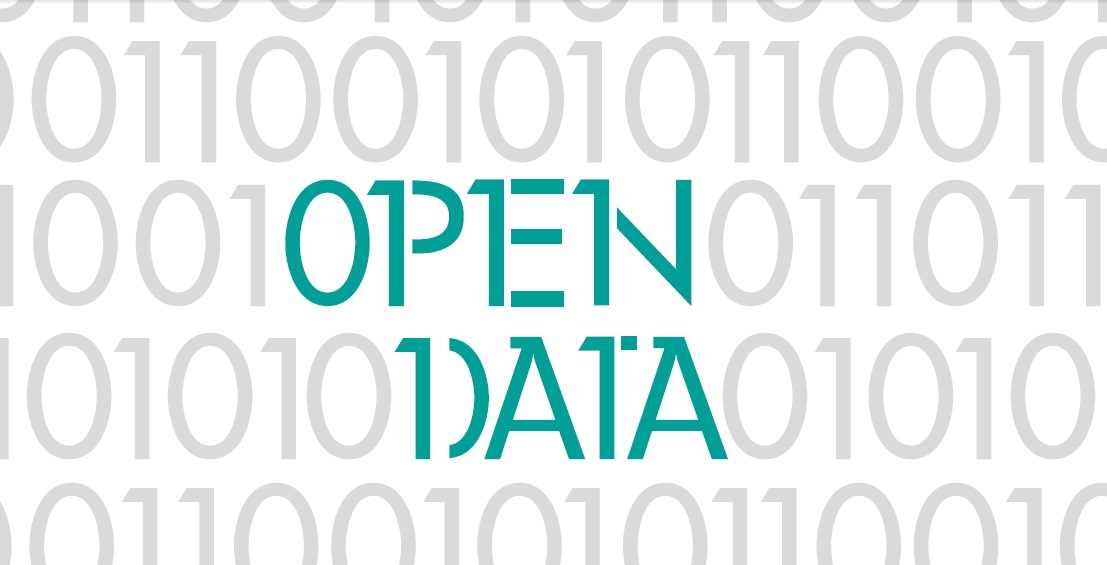
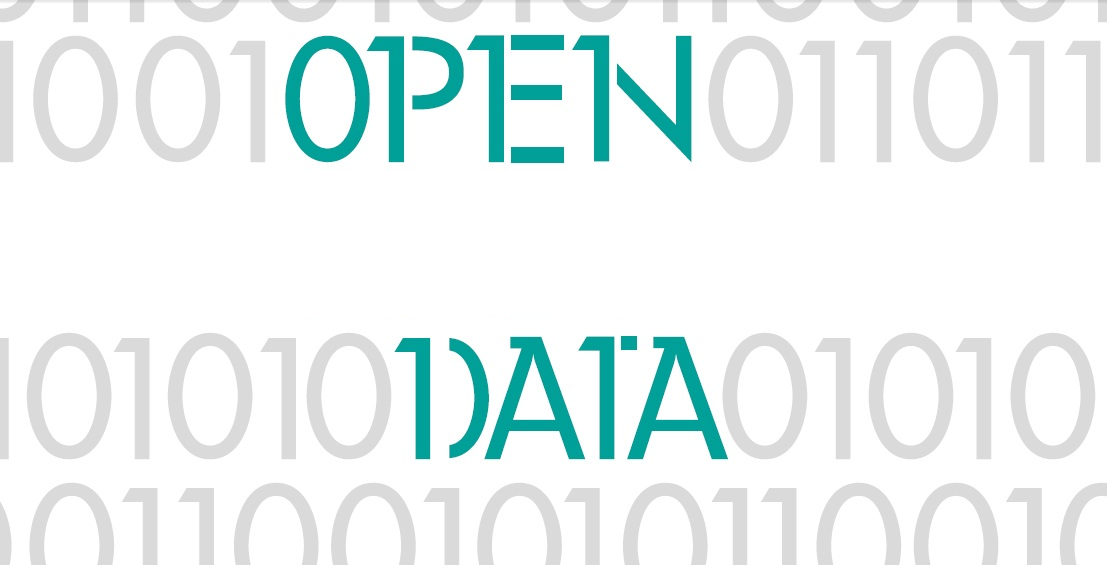
Add a input box in mainview

diff --git a/static/lib/components/maininput.js b/static/lib/components/maininput.js
@@ -1,0 +1,26 @@
+"use strict";
+
+define([], function () {
+    var MainInputPanel = React.createClass({
+        displayName: "MainInputPanel",
+
+        render: function render() {
+            return React.createElement("input", { id: "mainInputBox", value: this.state.value, onChange: this.handleChange });
+        },
+
+        handleChange: function handleChange(evt) {
+            this.setState({
+                value: evt.target.value
+            });
+        },
+        getInitialState: function getInitialState() {
+            return {
+                value: "Suburb Name"
+            };
+        },
+
+        componentDidMount: function componentDidMount() {}
+    });
+
+    return MainInputPanel;
+});

diff --git a/static/js/components/maininput.js b/static/js/components/maininput.js
@@ -1,0 +1,25 @@
+define([], function() {
+    var MainInputPanel = React.createClass({
+        render: function(){
+            return (
+                <input id="mainInputBox" value={this.state.value} onChange={this.handleChange} />
+            );
+        },
+
+        handleChange: function(evt) {
+            this.setState({
+            value: evt.target.value
+            });
+        },
+        getInitialState: function() {
+            return {
+            value: "Suburb Name"
+            };
+        },
+        
+        componentDidMount: function() {
+        }
+    });
+
+    return MainInputPanel;
+});

diff --git a/static/lib/components/mainview.js b/static/lib/components/mainview.js
@@ -1,14 +1,14 @@
 "use strict";
 
-define([], function () {
+define(["comp/maininput"], function (MainInput) {
     var Main = React.createClass({
         displayName: "Main",
 
         render: function render() {
             return React.createElement(
                 "div",
-                null,
-                React.createElement("img", { src: "resources/main.png" })
+                { id: "maindiv" },
+                React.createElement(MainInput, null)
             );
         }
     });

diff --git a/static/index.html b/static/index.html
@@ -14,7 +14,7 @@
     <link rel="stylesheet" type="text/css" href="./bower_components/datatables/media/css/jquery.dataTables.min.css"/>
 
     <link rel="stylesheet" type="text/css" href="./resources/viz.css"/>
- 
+    <link rel="stylesheet" type="text/css" href="./resources/opend.css"/>
 
     <!-- HTML5 Shim and Respond.js IE8 support of HTML5 elements and media queries -->
     <!-- WARNING: Respond.js doesn't work if you view the page via file:// -->

diff --git a/static/index_debug.html b/static/index_debug.html
@@ -14,7 +14,7 @@
     <link rel="stylesheet" type="text/css" href="./bower_components/datatables/media/css/jquery.dataTables.min.css"/>
 
     <link rel="stylesheet" type="text/css" href="./resources/viz.css"/>
- 
+    <link rel="stylesheet" type="text/css" href="./resources/opend.css"/>
 
     <!-- HTML5 Shim and Respond.js IE8 support of HTML5 elements and media queries -->
     <!-- WARNING: Respond.js doesn't work if you view the page via file:// -->

diff --git a/static/js/components/mainview.js b/static/js/components/mainview.js
@@ -1,9 +1,9 @@
-define([], function() {
+define(["comp/maininput"], function(MainInput) {
     var Main = React.createClass({
     render: function() {
-        return ( 
-            <div>
-                <img src="resources/main.png"></img>
+        return (        
+            <div id = "maindiv">
+                <MainInput />
             </div>
         );
         }

diff --git a/static/resources/opend.css b/static/resources/opend.css
@@ -1,0 +1,15 @@
+#maindiv {
+    background-image: url('main.png');
+    height: 500px;
+    width: 1000px;
+
+}
+
+#mainInputBox{
+    margin-left:10%;
+    height: 50px;
+    width: 80%;
+    margin-top:20%;
+    border:2px solid black;
+    
+}
